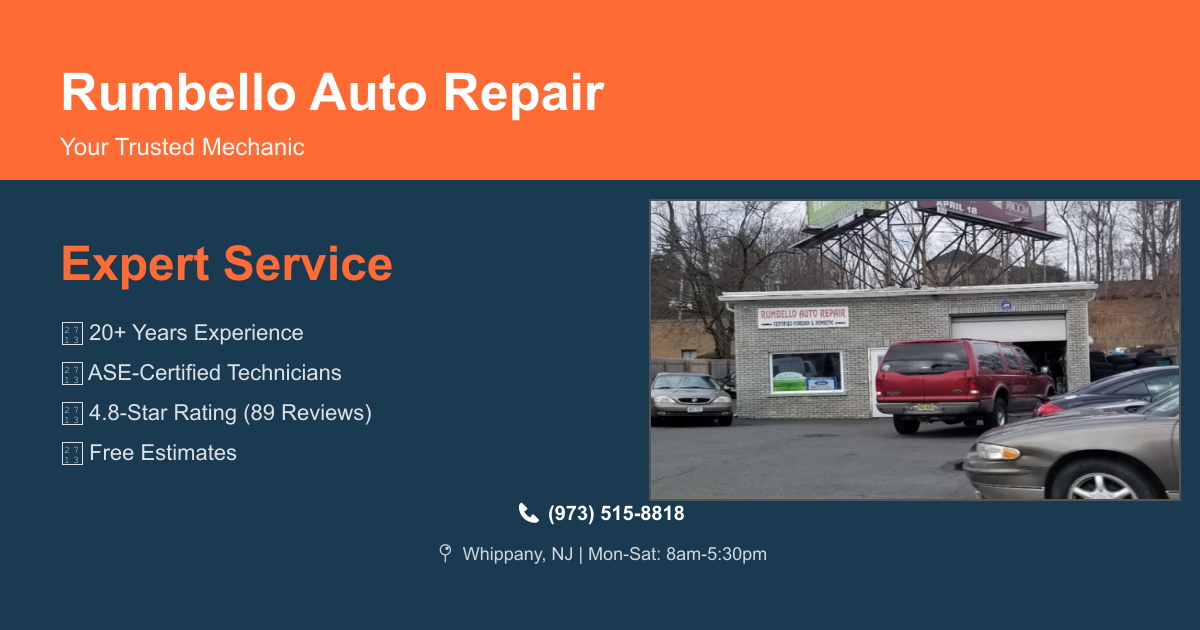
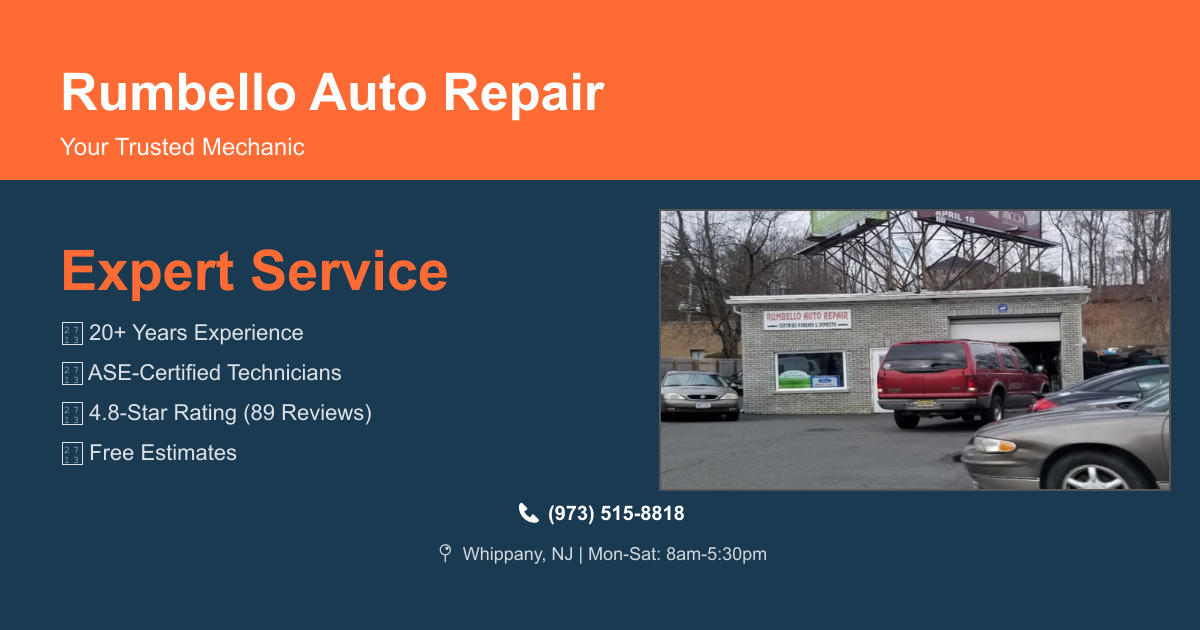
Enlarge Expert Service text, slightly downsize photo

Changed region(s): [[0.5242, 0.3016, 0.9867, 0.8143], [0.0308, 0.3921, 0.37, 0.4825]]

diff --git a/gen_card.js b/gen_card.js
@@ -35,9 +35,9 @@ async function generateCard() {
   ctx.fillText('Your Trusted Mechanic', 60, 155);
 
   // Services (LEFT side)
-  ctx.font = 'bold 48px Arial';
+  ctx.font = 'bold 56px Arial';
   ctx.fillStyle = '#ff6b35';
-  ctx.fillText('Expert Service', 60, 280);
+  ctx.fillText('Expert Service', 60, 290);
 
   const services = [
     '✓ 20+ Years Experience',
@@ -52,8 +52,8 @@ async function generateCard() {
     ctx.fillText(service, 60, 340 + (i * 40));
   });
 
-  // Photo box (WIDE, stretching to right edge)
-  const photoX = 650, photoY = 200, photoWidth = 530, photoHeight = 300;
+  // Photo box (WIDE, stretching to right edge, slightly smaller)
+  const photoX = 660, photoY = 210, photoWidth = 510, photoHeight = 280;
 
   if (shopImg) {
     ctx.drawImage(shopImg, photoX, photoY, photoWidth, photoHeight);